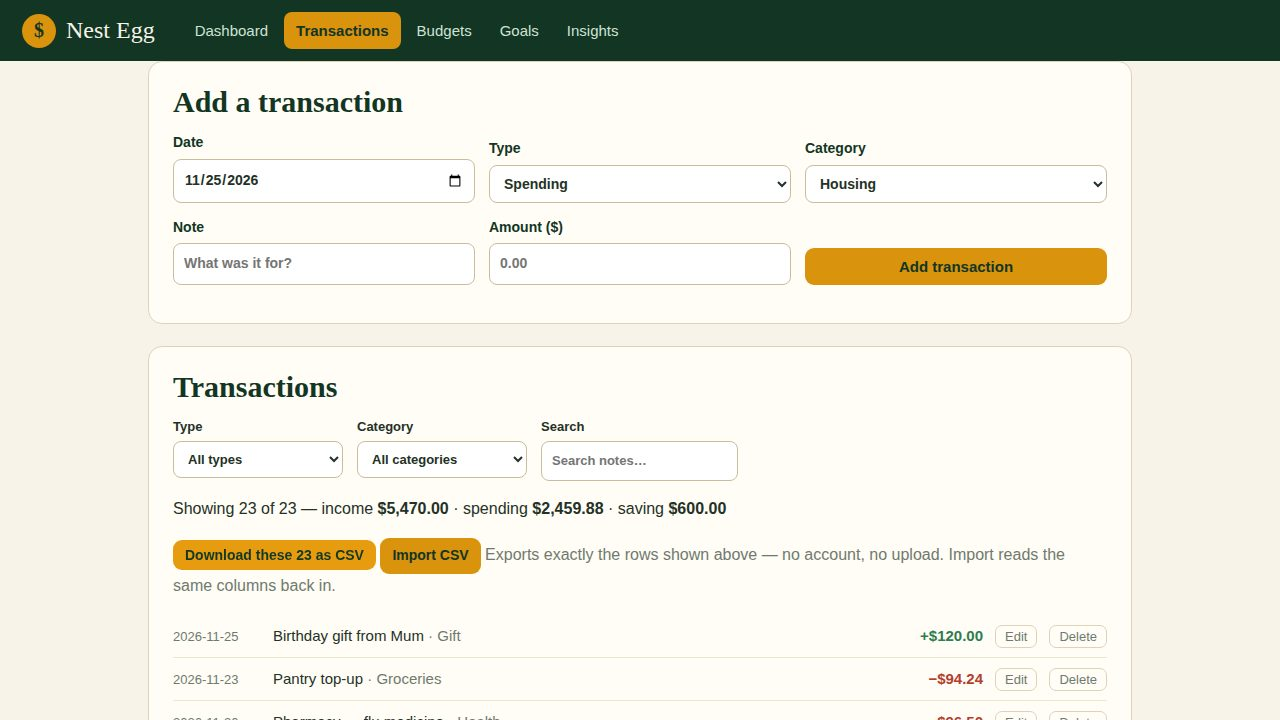
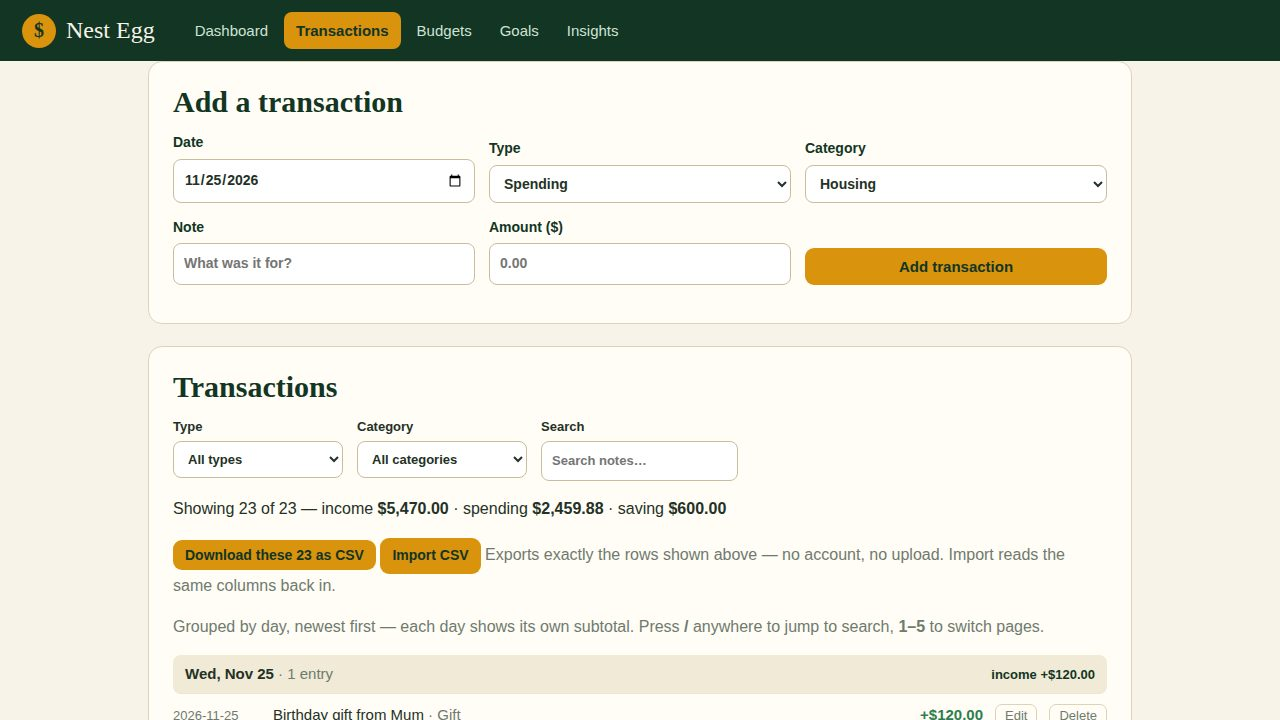
Nest Egg polish round 6 — day-grouped transactions, goal monthly plans, keyboard shortcuts

Changed region(s): [[0.125, 0.8556, 0.875, 1.0], [0.1562, 0.7639, 0.2812, 0.7944]]

diff --git a/app/pages.js b/app/pages.js
@@ -212,15 +212,18 @@ function pageTransactions(state, ui) {
     </div>
     <p id="tx-totals">Showing ${list.length} of ${state.transactions.length} — income <b>${money(totals.income)}</b> · spending <b>${money(totals.spending)}</b> · saving <b>${money(totals.saving)}</b></p>
     <p><button class="btn small" id="tx-csv" type="button">Download these ${list.length} as CSV</button> <label class="btn small import-label" for="tx-import">Import CSV</label><input id="tx-import" type="file" accept=".csv,text/csv" hidden> <span class="muted">Exports exactly the rows shown above — no account, no upload. Import reads the same columns back in.</span></p>
+    <p class="muted">Grouped by day, newest first — each day shows its own subtotal. Press <b>/</b> anywhere to jump to search, <b>1–5</b> to switch pages.</p>
     <p class="muted" id="tx-import-msg" aria-live="polite"></p>
     <ul class="tx-list">
-      ${list.map((tx) => ui.editingId === tx.id ? txEditRow(tx, state) : `<li>
+      ${groupTransactionsByDay(list).map((g) => `
+      <li class="tx-day"><span><b>${esc(g.label)}</b> <span class="muted">· ${g.count} ${g.count === 1 ? "entry" : "entries"}</span></span><b class="tx-day-total">${esc(daySubtotalLine(g.totals))}</b></li>
+      ${g.txs.map((tx) => ui.editingId === tx.id ? txEditRow(tx, state) : `<li>
         <span class="tx-date">${esc(tx.date)}</span>
         <span class="tx-note">${highlightMatch(esc(tx.note), ui.q)} <span class="muted">· ${highlightMatch(esc(tx.category), ui.q)}</span></span>
         <b class="amt-${tx.kind}">${tx.kind === "income" ? "+" : "−"}${money(tx.cents)}</b>
         <button class="tx-edit-btn" data-id="${esc(tx.id)}" aria-label="Edit ${esc(tx.note)}">Edit</button>
         <button class="tx-del" data-id="${esc(tx.id)}" aria-label="Delete ${esc(tx.note)}">Delete</button>
-      </li>`).join("") || `<li class="muted">Nothing matches those filters.</li>`}
+      </li>`).join("")}`).join("") || `<li class="muted">Nothing matches those filters.</li>`}
     </ul>
   </section>`;
 }
@@ -295,6 +298,7 @@ function pageGoals(state) {
     <p>Every dollar has a job. Add funds to a goal and the ledger records it as a saving transaction automatically.</p>
     ${state.goals.map((g) => {
       const proj = goalProjection(g, state);
+      const plan = goalMonthlyPlan(g, state);
       const projLine = proj.monthsLeft === 0 ? "Target reached — well done."
         : proj.monthsLeft === null ? "Add funds to start the countdown."
         : `About ${proj.monthsLeft} month${proj.monthsLeft === 1 ? "" : "s"} to go at the current pace (${money(proj.pace)} a month) — around ${proj.finishLabel}.`;
@@ -304,6 +308,11 @@ function pageGoals(state) {
         ${progressBar(100 * g.saved / g.target, "goal")}
         <div class="snap-foot"><span>${pctOf(g.saved, g.target)} saved</span><span class="muted">${money(Math.max(0, g.target - g.saved))} to go</span></div>
         <div class="goal-proj" id="goal-proj-${esc(g.id)}">${projLine}</div>
+        <div class="goal-plan" id="goal-plan-${esc(g.id)}">
+          <div class="goal-plan-row"><span>Finish in 6 months</span><b>${money(plan.need6)} a month</b></div>
+          <div class="goal-plan-row"><span>Finish in 12 months</span><b>${money(plan.need12)} a month</b></div>
+          <div class="goal-plan-line">${esc(goalPlanLine(g, state))}</div>
+        </div>
         <div class="fund-row">
           <label>Add funds ($) <input id="fund-${esc(g.id)}" type="number" min="1" step="1" placeholder="50"></label>
           <button class="btn small fund-add" data-goal="${esc(g.id)}">Add to ${esc(g.name)}</button>

diff --git a/app/money.js b/app/money.js
@@ -339,6 +339,77 @@ function goalProjection(goal, state) {
   return { pace, monthsLeft, finishLabel };
 }
 
+/* What a goal needs each month to finish on a schedule, not just at
+   the pace the household happens to be saving now: the amount is
+   rounded UP to the cent, so paying it every month really does cover
+   the gap (rounding down would leave a few cents short at the end).
+   A goal that is already met needs nothing; one with no saving pace
+   yet still gets its numbers, so the household can see what "start"
+   would have to look like. */
+function goalMonthlyPlan(goal, state) {
+  const pace = state.transactions
+    .filter((tx) => tx.kind === "saving" && tx.category === goal.name)
+    .reduce((sum, tx) => sum + tx.cents, 0);
+  const left = Math.max(0, goal.target - goal.saved);
+  const monthsAtPace = pace > 0 ? Math.ceil(left / pace) : null;
+  return {
+    pace,
+    left,
+    need6: left === 0 ? 0 : Math.ceil(left / 6),
+    need12: left === 0 ? 0 : Math.ceil(left / 12),
+    monthsAtPace,
+  };
+}
+
+/* One sentence comparing the goal's real pace with its 6- and
+   12-month plans, so the household can see whether to save more —
+   and by exactly how much — instead of just watching a date drift. */
+function goalPlanLine(goal, state) {
+  const plan = goalMonthlyPlan(goal, state);
+  if (plan.left === 0) return "Target reached — nothing more to save.";
+  if (plan.pace <= 0) {
+    return `No money went into this goal yet — ${money(plan.need6)} a month would finish it in 6 months, ${money(plan.need12)} a month in 12.`;
+  }
+  if (plan.pace >= plan.need6) {
+    return `At ${money(plan.pace)} a month you are already saving enough to finish it in 6 months.`;
+  }
+  if (plan.pace >= plan.need12) {
+    return `At ${money(plan.pace)} a month it takes about ${plan.monthsAtPace} months — ${money(plan.need6 - plan.pace)} more a month would do it in 6.`;
+  }
+  return `At ${money(plan.pace)} a month it takes about ${plan.monthsAtPace} months — ${money(plan.need12 - plan.pace)} more a month would finish it in 12.`;
+}
+
+/* Group a transaction list by day, newest day first: each group
+   carries its own totals, so a day's spending, income and saving are
+   visible without adding them up by hand. The groups follow whatever
+   list they are given — the full ledger, or a filtered one. */
+function groupTransactionsByDay(list) {
+  const byDay = new Map();
+  for (const tx of list) {
+    if (!byDay.has(tx.date)) byDay.set(tx.date, []);
+    byDay.get(tx.date).push(tx);
+  }
+  return [...byDay.entries()]
+    .sort((a, b) => b[0].localeCompare(a[0]))
+    .map(([date, txs]) => {
+      const totals = sumKinds(txs);
+      const parts = date.split("-").map(Number);
+      const label = new Date(parts[0], parts[1] - 1, parts[2])
+        .toLocaleDateString("en-US", { weekday: "short", month: "short", day: "numeric" });
+      return { date, label, txs, totals, count: txs.length };
+    });
+}
+
+/* A group's totals as one short line: only the kinds that actually
+   happened that day are shown, with the sign each kind carries. */
+function daySubtotalLine(totals) {
+  const bits = [];
+  if (totals.income > 0) bits.push(`income +${money(totals.income)}`);
+  if (totals.spending > 0) bits.push(`spending −${money(totals.spending)}`);
+  if (totals.saving > 0) bits.push(`saving −${money(totals.saving)}`);
+  return bits.join(" · ");
+}
+
 /* ---- Moving money between budgets (envelope budgeting) ---- */
 
 /* What a category still has free: its limit minus what it spent.

diff --git a/app/boot.js b/app/boot.js
@@ -296,3 +296,52 @@ function bindPage(route) {
 
 window.addEventListener("hashchange", render);
 render();
+
+/* Keyboard shortcuts, for the household that lives in this site:
+   1–5 switch pages, / jumps to the transaction search, n starts a
+   new transaction, Esc clears the search and filters (or closes an
+   open edit form). They never fire while the household is typing in
+   a field — a "1" in the search box stays a "1" — and never with a
+   modifier key held, so browser shortcuts are untouched. */
+const NEST_PAGES = ["", "transactions", "budgets", "goals", "insights"];
+
+function focusAfterNav(hash, selector) {
+  if ((window.location.hash || "#/") !== hash) {
+    window.location.hash = hash;
+  }
+  setTimeout(() => {
+    const el = document.querySelector(selector);
+    if (el) el.focus();
+  }, 60);
+}
+
+document.addEventListener("keydown", (ev) => {
+  if (ev.metaKey || ev.ctrlKey || ev.altKey) return;
+  const t = ev.target;
+  const typing = t && (t.tagName === "INPUT" || t.tagName === "SELECT" ||
+    t.tagName === "TEXTAREA" || t.isContentEditable);
+  if (ev.key === "Escape") {
+    if (typing) { t.blur(); return; }
+    if (nestUi.editingId) { nestUi.editingId = ""; render(); return; }
+    if (nestUi.q || nestUi.type || nestUi.cat) {
+      nestUi.q = ""; nestUi.type = ""; nestUi.cat = ""; nestUi.editingId = "";
+      render();
+    }
+    return;
+  }
+  if (typing) return;
+  if (ev.key >= "1" && ev.key <= "5") {
+    ev.preventDefault();
+    window.location.hash = "#/" + NEST_PAGES[Number(ev.key) - 1];
+    return;
+  }
+  if (ev.key === "/") {
+    ev.preventDefault();
+    focusAfterNav("#/transactions", "#flt-q");
+    return;
+  }
+  if (ev.key === "n" || ev.key === "N") {
+    ev.preventDefault();
+    focusAfterNav("#/transactions", "#tx-note");
+  }
+});

diff --git a/app/style.css b/app/style.css
@@ -325,6 +325,22 @@ input, select {
 
 .foot { color: var(--muted); font-size: 13px; padding: 10px 18px 34px; }
 
+/* Goal plan: what each month has to carry to finish on a schedule. */
+.goal-plan { background: #f0ead6; border-radius: 10px; padding: 10px 14px; margin-top: 10px; }
+.goal-plan-row { display: flex; justify-content: space-between; gap: 12px; font-size: 14px; padding: 2px 0; }
+.goal-plan-line { font-size: 13px; color: var(--muted); margin-top: 6px; }
+
+/* Day groups in the transaction list: one header per day with its
+   own subtotal, so a day's money is visible without adding it up. */
+.tx-day {
+  background: #f0ead6;
+  border-radius: 8px;
+  padding: 7px 12px !important;
+  margin-top: 8px;
+  justify-content: space-between;
+}
+.tx-day-total { font-size: 13px; color: var(--pine-dark); }
+
 @media (max-width: 720px) {
   .hero h1 { font-size: 30px; }
   .cards { grid-template-columns: 1fr 1fr; }

diff --git a/app/index.html b/app/index.html
@@ -21,7 +21,7 @@
 </header>
 <main id="app" class="wrap"></main>
 <footer class="wrap foot">
-  <p>Nest Egg — a household budget site. Demo data for the Chen household, November 2026. Everything you change is stored in your own browser only.</p>
+  <p>Nest Egg — a household budget site. Demo data for the Chen household, November 2026. Everything you change is stored in your own browser only. Keyboard: 1–5 switch pages · / searches transactions · N starts a new transaction · Esc clears the search.</p>
 </footer>
 <script src="seed.js"></script>
 <script src="money.js"></script>

diff --git a/README.md b/README.md
@@ -4,7 +4,7 @@
 [![rank](https://make.fun/badge/best-household-budget-site-20261126-1457/mytlyy0745/best-household-budget-site-20261126/rank.svg)](https://make.fun/bounty/best-household-budget-site-20261126-1457/leaderboard?utm_source=github&utm_medium=readme&utm_campaign=best-household-budget-site-20261126-1457)
 [![reward](https://make.fun/badge/best-household-budget-site-20261126-1457/mytlyy0745/best-household-budget-site-20261126/reward.svg)](https://make.fun/bounty/best-household-budget-site-20261126-1457?utm_source=github&utm_medium=readme&utm_campaign=best-household-budget-site-20261126-1457)
 
-Nest Egg is a household budget site for one family keeping its money straight. The dashboard shows what is left to spend in November 2026, with income, spending and savings at a glance, a donut of where the spending went — tap any slice or legend row and it opens Transactions filtered to that category — a month-pace strip (days left in the month, what is safe to spend each remaining day, and whether the flexible spending is ahead of or behind the plan — rent, which lands as one lump on the 1st, is left out of the pace so it never cries wolf), and a Next moves panel with the concrete steps the household's own numbers call for: covering an over-budget category from the budget with the most room, in one click, and the dollars needed to reach a 15% savings rate. Transactions can be added, edited inline, filtered and deleted, downloaded as a CSV of exactly the rows shown, and imported back from a CSV in the same shape; nine monthly budgets show progress and can have their limits changed, each with a burn-rate line saying when its limit runs out at the current pace (or that a one-off payment is already made), and limits can be moved between budgets — the month's total never changes — with the form opening pre-filled with the best move; an all-budgets total sits at the top; three savings goals track progress and take top-ups, each with a projected finish date worked out from what the household actually saves into it each month; Insights compares November with October, charts spending by week and by day (the biggest day was Nov 1, rent day, and 16 of the 30 days had no spending at all), shows the savings rate on a gauge against the 15% target, ranks the biggest spending, and turns the household's own numbers into plain-language tips. Adding or editing a transaction says what it does to that budget right away — over its limit, or nearly there — instead of leaving the household to notice on the Budgets page; searching transactions highlights the matching words in each row; and Insights offers the whole month as a plain-text report to download and keep. Keyboard users get a visible amber focus ring on every control, and status messages are announced to screen readers. Everything is static files — no build step, no network requests, no account — and changes are saved in the browser's local storage, with a one-click reset back to the demo month.
+Nest Egg is a household budget site for one family keeping its money straight. The dashboard shows what is left to spend in November 2026, with income, spending and savings at a glance, a donut of where the spending went — tap any slice or legend row and it opens Transactions filtered to that category — a month-pace strip (days left in the month, what is safe to spend each remaining day, and whether the flexible spending is ahead of or behind the plan — rent, which lands as one lump on the 1st, is left out of the pace so it never cries wolf), and a Next moves panel with the concrete steps the household's own numbers call for: covering an over-budget category from the budget with the most room, in one click, and the dollars needed to reach a 15% savings rate. Transactions can be added, edited inline, filtered and deleted, downloaded as a CSV of exactly the rows shown, and imported back from a CSV in the same shape; the list is grouped by day, newest first, with each day's own subtotal (income, spending and saving) so a day's money is visible without adding it up by hand. Nine monthly budgets show progress and can have their limits changed, each with a burn-rate line saying when its limit runs out at the current pace (or that a one-off payment is already made), and limits can be moved between budgets — the month's total never changes — with the form opening pre-filled with the best move; an all-budgets total sits at the top; three savings goals track progress and take top-ups, each with a projected finish date worked out from what the household actually saves into it each month, and a monthly plan saying what it would take each month to finish in 6 or 12 months, against the pace the household is actually on. Keyboard users get 1–5 to switch pages, / to jump to the transaction search, N to start a new transaction, and Esc to clear the search or close an open edit form, as well as a visible amber focus ring on every control, and status messages are announced to screen readers. Everything is static files — no build step, no network requests, no account — and changes are saved in the browser's local storage, with a one-click reset back to the demo month.
 
 ## Run it
 
